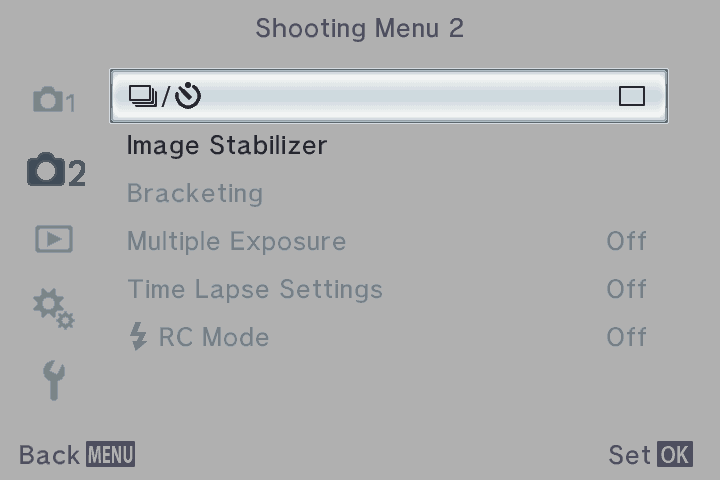
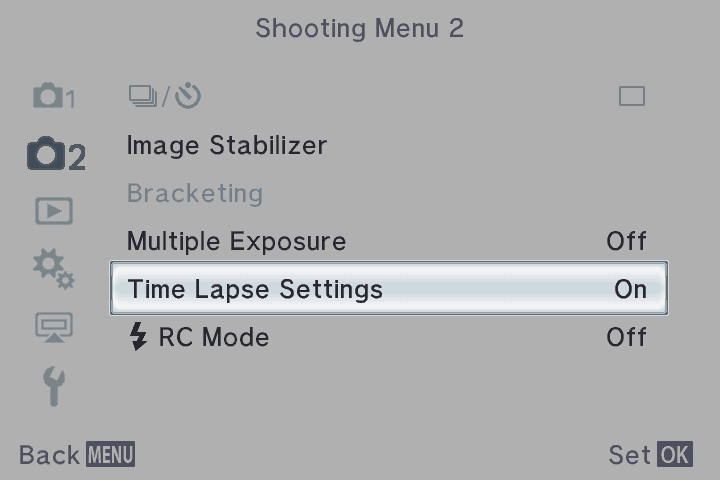
docs: emulator audit of the pinned build, new guide screenshots, audit findings in the to-do list

diff --git a/experiments/2026-11-14-emulator-audit/NOTES.md b/experiments/2026-11-14-emulator-audit/NOTES.md
@@ -1,0 +1,212 @@
+# Emulator audit of the camera-tested builds (2026-11-14)
+
+The boot emulator (docs/feasibility.md, "The emulator") was used to look for unintended effects of the
+patches in the pinned build `seven-films-6-interval-240-level`. Nothing was flashed. No repo file other
+than this one was changed.
+
+Labels: **V** = VERIFIED-in-emulator (the firmware's own code ran and the result was read from its
+screen, its log or a probe). **I** = INFERRED. **U** = UNKNOWN. "Static" = read from the image bytes.
+
+All scripts, screenshots and logs are outside the repo in `~/opt/om-emu-e101-boot-work/audit/`; the
+emulator's own notes are `~/opt/om-emu-e101-boot-work/NOTES.md` (section 13 is this session). Commands
+below run in `~/opt/om-emu-e101-boot-work` after `. ./env.sh`; `$SCRATCH/<name>` is an unpacked image.
+
+## Result in short
+
+| # | Check | Verdict |
+|---|---|---|
+| 1 | Menu crawl, stock against pinned | **OK.** Every differing screen is an intended change. No row is lost, no cursor difference, no new firmware error |
+| 2 | Time Lapse Settings grey in the emulator | **OK, emulator state only.** The gate is the clock (in P) or iAUTO. With a clock model the row works and all sub-screens open; values survive a restart. Two things to look at: "Card Full" and the defaults (below) |
+| 3 | Hook at 0x7E56C6A5 jumps to segment 2 | **OK, not a real exposure** (V for the three start paths, I for "never before the load") |
+| 4 | Boot test of every tested build | **OK.** All four equal stock |
+| 5 | Film names everywhere | **DEFECT (cosmetic): complete only in English.** Other languages show the old names or a mix. One wrong rename in French |
+| 6 | Level Gauge | **OK** for the row, the INFO cycle and "off = stock". Panel 594 through a viewfinder: **U** |
+| 7 | Anything else | Settings store identical. Reset was not executed: **U** |
+
+## Findings that need a decision
+
+1. **Film names are complete only in English (V).** `patches/seven-labels.json` replaces a text only
+   where it is exactly the English name. The ART list of the pinned image reads:
+   - English: Portra, Ektachrome, Pro 400H, Kodachrome, Grainy Film, Vis 250D, Velvia, Superia 400. Whole, not clipped.
+   - German: Portra, Soft Fokus, Blasse Farben, Weiches Licht, Monochrom Film, Lochkamera, Velvia, Crossentwicklung.
+   - French: Portra, Ektachrome, Ton Neutre&Lumineux, Tonalité Lumineuse, Grain Noir&Blanc, Sténopé, Velvia, Traitement Croisé.
+   - Spanish: Portra, Enfoque Suave, Color Pálido, Tono Claro, B/N Antiguo, Estenopeico, Velvia, Proceso Cruzado.
+   - Greek: Portra, old, old, old, old, Vis 250D, old ("Διόραμα"), Superia 400.
+   - Japanese, Chinese (simplified), Russian, Thai, Korean, Bulgarian: all seven old names, as stock.
+   Counts of replaced strings (static): Pop Art 10 languages, Cross Process 10, Diorama 21, Pin Hole 7,
+   Soft Focus 3, Pale&Light Color 1, Light Tone 1. No text is clipped or garbled in any language looked at.
+   Either say "English only" in the README or add the other languages' strings to the spec.
+2. **One unintended rename, French only (static V, where it shows is I).** The French text block has a
+   second plain string "Soft Focus" at block-1 offset 0x3D5550. Its neighbours are "Effet
+   supplémentaire", "Sténopé", "Effet Fondu Bords Blancs", "Encadré": it is the name of the soft-focus
+   *effect* in the Add Effects list, not the filter. The spec replaces it with "Ektachrome". Fix: drop
+   that one op from `seven-labels.json`.
+3. **Time Lapse Settings is not offered in every mode (V).** P: selectable (needs the clock). iAUTO:
+   grey. ART mode and movie mode: the row is hidden (ART shows drive, Image Stabilizer, Bracketing, RC
+   Mode). The same rules hide or grey the stock rows Bracketing and Multiple Exposure, so this is the
+   firmware's rule set, which is the E-PL6's (I). The README should say: use P/A/S/M, and pick a film
+   look there through Shooting Menu 1 → Picture Mode (the list has the film names).
+4. **"Card Full" with Time Lapse On (V in the emulator, cause U).** Emulated card: 64 MiB, 16 shots
+   left; Frame 230. After Time Lapse Settings → On, leaving the menu shows a full-screen "Card Full".
+   After a restart it shows again; the first MENU press removes it, and the row then reads Off (the
+   four values are kept). Whether the firmware compares the frame count with the shots left was not
+   followed. Camera probe: a nearly full card, Frame above the shots left, switch On, leave the menu.
+5. **Defaults (U).** On an empty settings store the pinned image shows Frame 99, Start Waiting Time
+   00:00:01, Interval Time 00:00:01, not the spec's 10 frames and 5 s. The patched default bytes are in
+   the image (static V: 0x0A at block-0 0xA2E98, 0x05 at 0xA2EA8). The MODE bank that the emulator's
+   first boot builds is byte-identical for stock and pinned. So the edited records are not what fills
+   these values on that path (I). The emulator's first boot starts from erased flash, which no camera
+   does; the camera probe is a full reset and a look at the three values.
+
+## 1. Menu crawl
+
+Crawler: at each cursor position one PNG named by its path, RIGHT opens the child, DOWN to the end of
+the list. It never presses OK. Screens are compared byte by byte.
+
+| Configuration | Screens stock / pinned | Differ | Only on pinned |
+|---|---|---|---|
+| P, card, clock set, every sub-screen (`p-card-full`) | 3548 / 4255 | 170 | 707 |
+| P, no card, first sub-screen (`p-nocard-shallow`) | 304 / 304 | 25 | 0 |
+| iAUTO, no card (`iauto-nocard-shallow`) | 235 / 235 | 9 | 0 |
+| ART, card (`art-card-shallow`) | 237 / 237 | 0 | 0 |
+| Movie, card (`movie-card-shallow`) | 229 / 229 | 12 | 0 |
+
+Every differing screen, by place (all **intended**, V):
+
+| Where | Screens | Cause |
+|---|---|---|
+| Shooting Menu 2 page, and every pop-up drawn over it (drive, Image Stabilizer, Bracketing, Multiple Exposure, RC Mode) | 12 + tab view | the new row Time Lapse Settings; RC Mode one row lower |
+| Shooting Menu 2 → Time Lapse Settings and below | 701, pinned only | the new screens |
+| Shooting Menu 2 → Bracketing → ART BKT list | 43 | film names |
+| Shooting Menu 1 → Picture Mode list | 12 | film names |
+| Custom Menu D → Info Settings → LV-Info | 9 + 3 pinned only (seen twice, the list wraps) | the row Level Gauge and its Off/On |
+| Custom Menu D → Picture Mode Settings | 42 (seen twice) | film names |
+
+- Rows on one image only: Time Lapse Settings, Level Gauge. No stock row is missing on pinned (V).
+- Cursor: the crawler's notes (end of list, wrap, a child that leaves two levels) are the same on both
+  images in every unit (V).
+- Firmware error log: the same two boot-time entries (0x2A001001) on both; none during any crawl (V).
+- ART mode: no difference at all, because the Time Lapse row is hidden there and the Picture Mode row
+  is grey. Movie mode: only the Picture Mode list.
+- Not walked: the rest of a row's sub-screens after 150 screens (three Custom Menu chunks and the
+  clock editor; same on both); SCN mode; A, S and M; the Playback Menu with pictures on the card (the
+  card is empty: one selectable row); the top mode menu and the live control (they sit on pictures
+  that are not in the update file); the super control panel. The Accessory Port Menu was walked; its
+  row Electronic Viewfinder is grey without a viewfinder.
+
+```sh
+audit/crawl-all.sh p-card-full          # also: p-nocard-shallow iauto-nocard-shallow art-card-shallow movie-card-shallow
+python3 audit/crawldiff.py audit/crawl/p-card-full/stock audit/crawl/p-card-full/pinned audit/diff/p-card-full
+```
+
+## 2. Time Lapse Settings
+
+- Row-enable source (V): per row the menu calls `app_check_mode` 0x7E9E8CCD; each setting has a list
+  of checks from the table 0x7EC1C368. For setting 482: iAUTO fails check 26 (0x7E9E914D), which also
+  greys Bracketing and Multiple Exposure; in P the only failing check was 78 (0x7E9E9B85): the real-time
+  clock is not set. Multiple Exposure in P fails check 39: no card.
+- The emulator had no clock. A register model of the clock was added (seconds counter, "initialised"
+  marker; Unix time, V). With the clock set the row is black and selectable in P (V). So the grey
+  state was emulator-only, and it confirms the README's "set date and time first".
+- Screens (V): Off/On → Frame, Start Waiting Time, Interval Time, Time Lapse Movie, each with its help
+  text. Frame list: 99 values going down from 99f to 1f in steps of 1 (the list stops at 1f), and
+  going up 100, 105, … 240 (29 values); UP at 240 does nothing. Total 128.
+- Persistence (V): Frame 230, 00:01:01, 00:02:01, Movie On were set, the menu left, the emulator
+  restarted with the saved store: all four values are kept.
+
+```sh
+export E101_RTC=2026-11-14T12:00:00 E101_CARD=$SCRATCH/cardsrc-audit
+BLOCKS=$SCRATCH/pinned E101_STATE=/tmp/scratch/p.json $NODE audit/canexec.mjs w:500 key:MENU key:RIGHT key:OK key:DOWN
+# (state: a copy of audit/state/pinned-p.json) prints "mode 482 check 78 ... status 1" when E101_RTC is not set
+# key script for the screens: ~/opt/om-emu-e101-boot-work/NOTES.md section 13.3
+```
+
+## 3. The hook at 0x7E56C6A5 (remap7b-code)
+
+- The hook is in function 0x7E56C603, the art colour-matrix step. Its callers are 0x7E56B594,
+  0x7E56B5BB and 0x7E56B5E3; these are reached only through the image-job table 0x7E789604, entry =
+  job type, used by the dispatcher 0x7E560ACF in the IMG job driver (static V). The callers of that
+  driver are still capture, RAW edit, art processing and movie recording.
+- Normal boot (V): segment 2 is loaded at 16.8 ms (call 0x7E504C18). 0x7E56C603 did not run in 3 s.
+- Quick start, `E101_FAST=1` (V): load at 25.8 ms; the function did not run. The emulated quick
+  start stops before live view.
+- Menus (V): each menu screen runs one IMG job of type 27, whose table entry is an empty function.
+- Update path (V as far as it goes): power-on with OK held. Without an update file: mount error, then
+  the normal boot, segment 2 loaded at 18.7 ms. With `DCOLYMP/E1019999.BIN` on the emulated card: file
+  found, five parts descrambled, then the body-controller update starts and the emulator cannot go
+  on. Segment 2 was not loaded and no IMG job ran up to there.
+- Verdict: the hooked code needs a develop job, which needs a capture or an edit. No such job can
+  start in the first 26 ms or on the update path (I). The hookcheck FAIL is a true statement about
+  load order and not a boot risk here. If it is to be made clean anyway: the 219 bytes at
+  0x7ECB08AE–0x7ECB0988 need a segment-1 home. The padding 0x7E880F5C–0x7E881000 is full (3 bytes
+  free); a dead segment-1 function is needed, as `peaking-direct-3` uses (0x7E50A201 and 0x7E53A55C
+  are taken by it).
+
+```sh
+BLOCKS=$SCRATCH/pinned $NODE probe.mjs 3000 7e56c603,7e56c6a5,7e504c18 8          # add E101_FAST=1 for the quick start
+BLOCKS=$SCRATCH/pinned $NODE audit/update-boot.mjs 3000                            # OK held, no card
+BLOCKS=$SCRATCH/pinned E101_CARD=/tmp/scratch/updcard $NODE audit/update-boot.mjs 4000
+```
+
+## 4. Boot test and hookcheck
+
+| Build | sha256 of the rebuilt file = builds/*.json | `stage2-boot.mjs 2000` | hookcheck |
+|---|---|---|---|
+| seven-films-6 | yes | PASS, output equal to stock | 13 transfers, 1 FAIL (0x7E56C6A5, see 3) |
+| seven-films-6-interval | yes | PASS, equal | the same |
+| seven-films-6-interval-240 | yes | PASS, equal | the same |
+| seven-films-6-interval-240-level (pinned) | yes | PASS, equal | the same |
+| pinned, `E101_FAST=1` | | equal to stock with `E101_FAST=1` | |
+
+"Equal" = the whole report (console, task states, instruction counts, events) with the wall time
+removed (V). With `E101_FAST=1` the script prints FAIL for stock too: the quick start waits for live
+view, which the emulator does not have.
+
+## 5. Film names
+
+See finding 1 and 2. Other facts:
+
+- English, pinned (V): ART list titles, ART BKT list, Picture Mode list, Picture Mode Settings list
+  all show the seven names whole. Filter Type and Add Effects screens show icons only.
+- Old English names still in the pinned image (static V): only "Add Soft Focus Effect", which is the
+  effect and is right. Help texts were not searched for descriptions of the old filters (U).
+- The shooting screen in ART mode shows the icon ART 1…12, no name (V). Playback info: not reached.
+- There is no right-to-left language. The grid has 34 languages; 11 were set and looked at.
+
+```sh
+audit/lang-art.sh        # pinned: en ja de fr es zh ru el th ko bg; stock: en de ja
+```
+
+## 6. Level Gauge
+
+- LV-Info has four rows on pinned, three on stock (V). Level Gauge Off/On sets and persists (V).
+- INFO cycle with Level Gauge on, in iAUTO, P, movie and ART (V): information → histogram → image only
+  → gauge → information. Playback INFO is the same as stock (no card: "No Card").
+- With Level Gauge off the INFO cycle and playback INFO are byte-equal to stock in all four modes (V,
+  8 screens each).
+- Tilt stand-in: level gives two green bars; x or z moves one bar. With x = 1 g (camera on its side)
+  the roll bar only goes to its end mark; the display does not turn. What the camera does: U.
+- Panel 594: no menu of either image shows it in any crawl (V). The Accessory Port Menu has OLYMPUS
+  PENPAL Share, OLYMPUS PENPAL Album and Electronic Viewfinder; the last is grey because none of the
+  accessory keys 0x1706 / 0x170A / 0x170E is on (check 87, 0x7E9E9C89). A stand-in that sets the first
+  key makes an accessory icon appear on the shooting screen, and then the emulated camera takes no key
+  any more. So the viewfinder screens were not reached: U.
+- The text "Level Adjust" is in the image once per language on stock and pinned; no menu row shows it (V).
+
+```sh
+audit/info-cycle.sh
+```
+
+## 7. Other
+
+- Settings store (V): the MODE and EEROM banks of a first boot are byte-identical on stock and
+  pinned, same size. The new rows use settings that stock already stores (273, 482–486).
+- Reset/Myset and the Custom Menu reset: the screens are the same on both images (crawl); a reset was
+  not executed, so what it does to 273 and 482–486 is U.
+- The crawler found no fault and no firmware error on either image.
+
+## Limits
+
+The emulator has no sensor, live view, capture, lens or real card timing. Background pictures are
+missing. A pass here is not proof on the camera. Findings 4 and 5 may be emulator artefacts; each has
+a camera probe above.

diff --git a/docs/todo.md b/docs/todo.md
@@ -36,11 +36,21 @@ and delete the item here.
   camera.
 - Add Effects (glow, vignette, white edge, frame) on a film look: a data edit, not yet tried.
 - More film entries through the hidden art-filter numbers 110 to 118: not yet tried.
+- The film names are complete only in English. German and Spanish show two names, French three,
+  Greek three; Japanese, Chinese, Russian, Thai, Korean and Bulgarian show the old names. Rename the
+  entries of the other language tables.
+- Defect: in French, the label of the effect "Soft Focus" (Add Effects) reads "Ektachrome". Remove
+  the edit at block 1 offset 0x3D5550 from `patches/seven-labels.json` in the next build.
+  Both items: `experiments/2026-11-14-emulator-audit/NOTES.md` §5.
 
 ## Interval shooting
 
 - Not yet reported: a full sequence of 240 frames, the cancellation of a sequence, intervals longer
   than 90 seconds, a full card.
+- In the emulator, Time Lapse On with 230 frames and 16 shots left gives "Card Full", and after a
+  restart the row reads Off. Find out on the camera: set more frames than the card has room for.
+- An empty settings store shows Frame 99, 00:00:01, 00:00:01 in the emulator, not 10 frames and
+  5 seconds. Find out on the camera after Reset → Full.
 
 ## Video
 
@@ -50,15 +60,15 @@ and delete the item here.
 ## Foundations
 
 - The load-order check (`python3 tools/emu/hookcheck.py SPEC...`) reports one failure in the pinned
-  build: the hook at 0x7E56C6A5 (`remap7b-code`, segment 1) jumps to code in segment 2. The camera
-  has started and updated normally many times with this hook, and the emulator's boot test passes,
-  so the hooked function does not run before segment 2 is loaded. Prove that from the code, or move
-  the routine into segment 1.
+  build: the hook at 0x7E56C6A5 (`remap7b-code`, segment 1) jumps to code in segment 2. The audit
+  shows that the host function is reached only through the image-job table 0x7E789604, and it did
+  not run before segment 2 was loaded on a normal start, a quick start and the update path. That is
+  a test result, not a proof. A clean fix moves 219 bytes into a dead function of segment 1.
 - Make the load-order check and the emulator's boot test a step of `epm2mod make` for a candidate.
 - Emulator (outside the repository, `~/opt/om-emu-e101-boot-work/`), open points:
-  - In the emulator the row Time Lapse Settings is grey and cannot be entered, like Bracketing and
-    Multiple Exposure beside it. Find the condition (the mode, or a stand-in). On the camera the
-    row works.
+  - The row Time Lapse Settings is grey when the clock is not set. Start the emulator with
+    `E101_RTC=2026-11-14T12:00:00`.
+  - Not reached: the screens of a viewfinder, the live control, the super control panel.
   - Power-off does not finish. Half-press and full press are not tried. A real JPEG in playback is
     not tried.
   - The background pictures of the menus are in a flash area that is not in the update file, so

diff --git a/docs/guide/film-looks.md b/docs/guide/film-looks.md
@@ -5,7 +5,7 @@ Seven art filters are replaced by film looks. They work for photos and live view
 **To use one:** in P, A, S or M mode, press **OK**, select **Picture Mode**, and move right past
 Custom to the look. The looks are also in the **ART** mode list.
 
-<img src="../images/ui/art-portra.png" width="320" alt="The ART list with Portra selected">
+<img src="../images/ui/picture-mode-portra.png" width="320" alt="The Picture Mode list with Portra selected">
 
 <!-- BEGIN GENERATED: films -->
 | Menu name | Film | Replaces |
@@ -25,6 +25,7 @@ Grainy Film, Gentle Sepia, Dramatic Tone, Key Line and Watercolor do not change.
 
 - Colour and tone only: no grain, no halation.
 - A movie gets only a part of each look.
+- The film names show only when the camera language is English.
 - Type II of Portra, Pro 400H and Superia is the same as type I.
 
 How the looks were made and measured: [../film-emulation.md](../film-emulation.md).

diff --git a/docs/guide/interval-shooting.md b/docs/guide/interval-shooting.md
@@ -1,8 +1,9 @@
 # Interval shooting
 
-**MENU → Shooting Menu 2 → Time Lapse Settings → On.**
+Set the mode to P, A, S or M and set the clock. Then: **MENU → Shooting Menu 2 → Time Lapse Settings → On.**
 
 <img src="../images/ui/shooting-menu-2.png" width="320" alt="Shooting Menu 2 with Time Lapse Settings">
+<img src="../images/ui/time-lapse-settings.png" width="320" alt="The Time Lapse Settings screen">
 
 | Setting | Values |
 |---|---|
@@ -16,6 +17,7 @@ Press the shutter button to start the sequence. The camera stays on until the se
 **Limits**
 
 - Each frame uses the mechanical shutter.
+- The row is not available in iAUTO, ART and movie mode. For a film look, use **Picture Mode**.
 - Not yet tested: 240 frames in one sequence, stopping a sequence, intervals over 90 seconds.
 
 How it works: [../../experiments/2026-11-13-intervalometer/README.md](../../experiments/2026-11-13-intervalometer/README.md).
